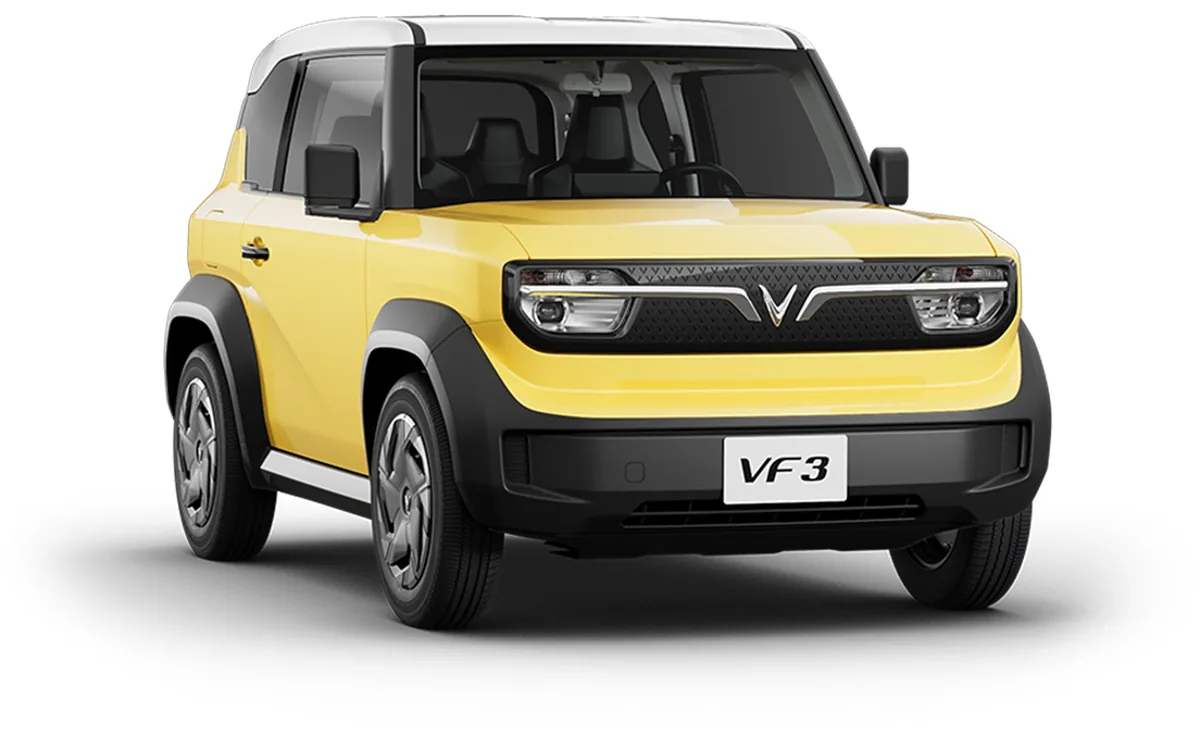
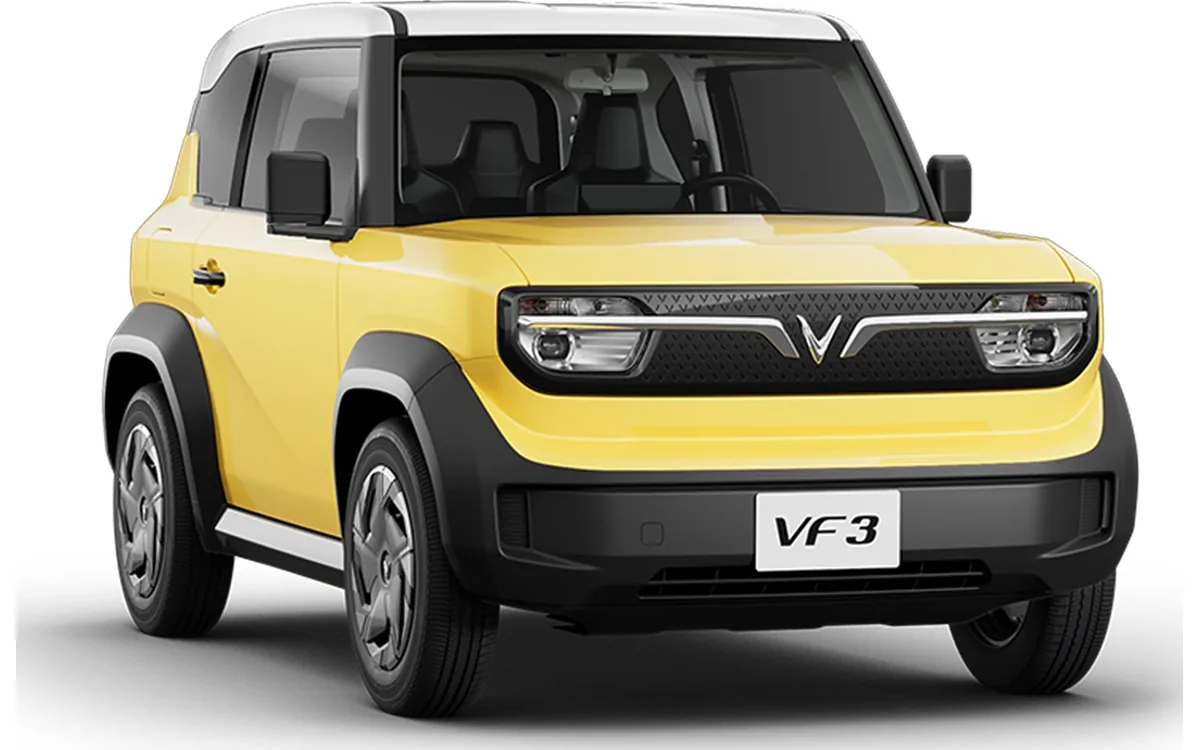
feat: use studio renders for vf 8, vf 9, vf mpv 7 and limo green
All nine model cards now use studio renders. White-backdrop renders
are fitted whole like cut-outs, and faint alpha haze is ignored when
trimming, so small cars are no longer shrunk.

diff --git a/index.html b/index.html
@@ -232,10 +232,6 @@
         <p>Ảnh từ Wikimedia Commons, đã được cắt và nén lại.</p>
         <ul>
           <li>Ảnh đầu trang: <a href="https://commons.wikimedia.org/wiki/File:Newone_-_White_VinFast_VF_5,_Blue_VinFast_VF_9_and_Neptune_Grey_VinFast_VF_8_01.jpg" rel="nofollow">Newone</a>, <a href="https://creativecommons.org/licenses/by-sa/4.0/deed.vi" rel="nofollow license">CC BY-SA 4.0</a></li>
-          <li>VF 8: <a href="https://commons.wikimedia.org/wiki/File:VinFast_VF_8_Greater_Toronto_Area,_Canada.jpg" rel="nofollow">OWS Photography</a>, <a href="https://creativecommons.org/licenses/by/4.0/deed.vi" rel="nofollow license">CC BY 4.0</a></li>
-          <li>VF 9: <a href="https://commons.wikimedia.org/wiki/File:VinFast_VF_9_Plus_Deep_Ocean_Metallic.jpg" rel="nofollow">Ethan Llamas</a>, <a href="https://creativecommons.org/licenses/by-sa/4.0/deed.vi" rel="nofollow license">CC BY-SA 4.0</a></li>
-          <li>VF MPV 7: <a href="https://commons.wikimedia.org/wiki/File:VinFast_VF_MPV_7_Silver_01.jpg" rel="nofollow">Ethan Llamas</a>, <a href="https://creativecommons.org/licenses/by-sa/4.0/deed.vi" rel="nofollow license">CC BY-SA 4.0</a></li>
-          <li>Limo Green: <a href="https://commons.wikimedia.org/wiki/File:VinFast_Limo_Green_GreenGSM_taxi_01.jpg" rel="nofollow">Ethan Llamas</a>, <a href="https://creativecommons.org/licenses/by-sa/4.0/deed.vi" rel="nofollow license">CC BY-SA 4.0</a></li>
         </ul>
       </details>
       <p>© 2026 Võ Đức Thành</p>

diff --git a/scripts/optimize_images.py b/scripts/optimize_images.py
@@ -9,7 +9,7 @@ import io
 import sys
 from pathlib import Path
 
-from PIL import Image, ImageDraw, ImageFont, ImageOps
+from PIL import Image, ImageChops, ImageDraw, ImageFont, ImageOps
 
 ROOT = Path(__file__).resolve().parent.parent
 SRC = ROOT / "assets" / "src"
@@ -61,6 +61,18 @@ def encode(img, fmt, budget):
     return buf.getvalue()
 
 
+def fit_on_white(img, w, h):
+    """Fit the whole image inside w x h on white with a small margin, never cropping it."""
+    inner = (int(w * 0.92), int(h * 0.92))
+    return ImageOps.pad(ImageOps.contain(img, inner, Image.LANCZOS), (w, h), color="#ffffff")
+
+
+def is_white_studio(img):
+    """True when all four corners are near-white, i.e. a render on a plain white backdrop."""
+    x, y = img.width - 1, img.height - 1
+    return all(min(img.getpixel(p)) >= 240 for p in ((0, 0), (x, 0), (0, y), (x, y)))
+
+
 def find_source(stem):
     for ext in EXTS:
         p = SRC / f"{stem}{ext}"
@@ -77,12 +89,15 @@ def load(stem, w, h, label, make_placeholder):
             # Cut-out car render: put it on white and fit the whole car in the frame (no cropping),
             # with a small margin so bumpers don't touch the card edge.
             img = img.convert("RGBA")
-            img = img.crop(img.getchannel("A").getbbox() or (0, 0, *img.size))
+            solid = img.getchannel("A").point(lambda a: 255 if a > 40 else 0)  # ignore faint shadow/haze
+            img = img.crop(solid.getbbox() or (0, 0, *img.size))
             bg = Image.new("RGB", img.size, "#ffffff")
             bg.paste(img, mask=img.getchannel("A"))
-            inner = (int(w * 0.92), int(h * 0.92))
-            return ImageOps.pad(ImageOps.contain(bg, inner, Image.LANCZOS), (w, h), color="#ffffff"), str(src.name)
+            return fit_on_white(bg, w, h), str(src.name)
         img = img.convert("RGB")
+        if is_white_studio(img):  # studio render on plain white: same treatment as a cut-out
+            content = ImageChops.difference(img, Image.new("RGB", img.size, "#ffffff")).convert("L").point(lambda v: 255 if v > 12 else 0)
+            return fit_on_white(img.crop(content.getbbox() or (0, 0, *img.size)), w, h), str(src.name)
         return ImageOps.fit(img, (w, h), Image.LANCZOS), str(src.name)
     if make_placeholder:
         return placeholder(w, h, label), "placeholder"

diff --git a/tests/test_optimize_images.py b/tests/test_optimize_images.py
@@ -54,5 +54,34 @@ class OptimizeImagesTests(unittest.TestCase):
         self.assertTrue(reds and reds[0] < 80 and reds[-1] > out.width - 80, reds[:3] + reds[-3:])
 
 
+    def test_cutout_with_faint_haze_is_trimmed_to_the_car(self):
+        # wide canvas, faint near-transparent haze everywhere, small opaque car in the middle
+        img = Image.new("RGBA", (2560, 1066), (0, 0, 0, 8))
+        img.paste((220, 20, 20, 255), (1000, 400, 1560, 700))
+        img.save(opt.SRC / "vf-8.png")
+        opt.main()
+        out = Image.open(opt.OUT / "vf-8-800.webp").convert("RGB")
+        reds = [x for x in range(out.width) if out.getpixel((x, out.height // 2))[1] < 100]
+        self.assertGreater(len(reds), out.width * 0.8)  # car fills the frame width
+
+    def test_white_background_render_is_fitted_not_cropped(self):
+        # 16:9 studio render on plain white with the car touching both side edges
+        img = Image.new("RGB", (1920, 1080), (255, 255, 255))
+        img.paste((220, 20, 20), (0, 500, 60, 700))
+        img.paste((220, 20, 20), (1860, 500, 1920, 700))
+        img.save(opt.SRC / "vf-6.jpg", quality=95)
+        opt.main()
+        out = Image.open(opt.OUT / "vf-6-800.webp").convert("RGB")
+        reds = [x for x in range(out.width) if out.getpixel((x, out.height // 2))[1] < 100]
+        self.assertTrue(reds and reds[0] < 80 and reds[-1] > out.width - 80, reds[:3] + reds[-3:])
+
+    def test_photo_with_scene_background_is_still_cropped_to_fill(self):
+        # a normal photo (non-white corners) keeps cover-crop: no white bars added
+        Image.new("RGB", (1920, 1080), (40, 60, 90)).save(opt.SRC / "vf-8.jpg", quality=95)
+        opt.main()
+        out = Image.open(opt.OUT / "vf-8-800.webp").convert("RGB")
+        self.assertLess(max(out.getpixel((2, 2))), 120)
+
+
 if __name__ == "__main__":
     unittest.main()

diff --git a/tests/check_page.py b/tests/check_page.py
@@ -18,7 +18,7 @@ MODELS = [
     ("vf-2", "VF 2"), ("vf-3", "VF 3"), ("vf-5", "VF 5"), ("vf-6", "VF 6"), ("vf-7", "VF 7"),
     ("vf-8", "VF 8"), ("vf-9", "VF 9"), ("vf-mpv-7", "VF MPV 7"), ("limo-green", "Limo Green"),
 ]
-COMMONS_IMAGES = ["Ảnh đầu trang", "VF 8", "VF 9", "VF MPV 7", "Limo Green"]
+COMMONS_IMAGES = ["Ảnh đầu trang"]
 GROUPS = ["Xe gia đình & cá nhân", "Xe kinh doanh dịch vụ"]
 VOID = {"area", "base", "br", "col", "embed", "hr", "img", "input", "link", "meta", "source", "track", "wbr"}
 
